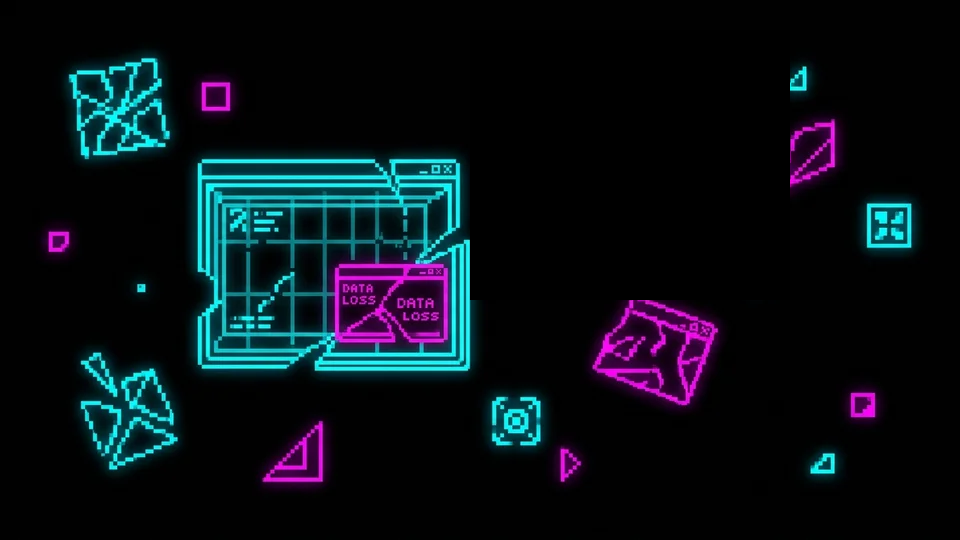
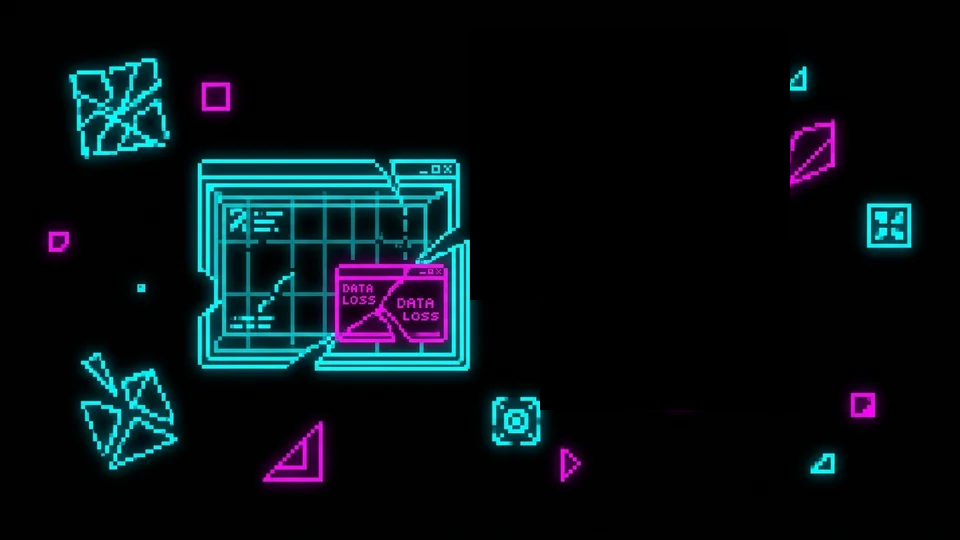
fix(ch4): composicion QA en navegador — near iter3 despeja pies, opacidades matrix/near a rol ambiente

Changed region(s): [[0.5938, 0.5333, 0.75, 0.7704], [0.5625, 0.7407, 0.5938, 0.7704]]

diff --git a/src/components/Chapter4Content.vue b/src/components/Chapter4Content.vue
@@ -353,12 +353,13 @@ onBeforeUnmount(() => {
 
 /* c3 matrix base — Fase B: lluvia de glifos cian sobre negro puro.
    mix-blend-mode:screen convierte el negro en transparente gratis (sin bg-removal).
-   Opacidad baja: es capa de ambiente, los glifos CSS vivos flotan encima (z2). */
+   Opacidad MUY baja: a 0.35 hacía sopa cian detrás del título/paneles
+   (QA visual en navegador 2026-07-10) — ambiente lejano, no protagonista. */
 .ch4-layer--matrix {
   z-index: 1;
   background-image: url('/assets/ch4-matrix.webp');
   mix-blend-mode: screen;
-  opacity: 0.35;
+  opacity: 0.16;
   transform: translate3d(
     calc((var(--mx, 0) + var(--dx, 0)) * 11px),
     calc((var(--my, 0) + var(--dy, 0)) * 9px),
@@ -416,12 +417,14 @@ onBeforeUnmount(() => {
 
 /* c0 near — Fase B: fragmentos holográficos de primer plano (ventanas wireframe rotas,
    shards de datos cian/magenta). Negro puro = transparente via screen blend.
-   Opacidad alta: capa más cercana, protagonista visual del primer plano. */
+   Opacidad contenida: a 0.8 la ventana DATA LOSS (escalada cover a viewport)
+   competía con los paneles de contenido (QA visual 2026-07-10) — presencia
+   fantasmal de primer plano, no cartel. */
 .ch4-layer--near {
   z-index: 4;
   background-image: url('/assets/ch4-near.webp');
   mix-blend-mode: screen;
-  opacity: 0.8;
+  opacity: 0.38;
   transform: translate3d(
     calc((var(--mx, 0) + var(--dx, 0)) * 32px),
     calc((var(--my, 0) + var(--dy, 0)) * 22px),

diff --git a/public/assets/old/CHANGELOG.md b/public/assets/old/CHANGELOG.md
@@ -747,3 +747,11 @@ Aplica colectivamente a los 4 assets parallax originales de ch4 (Plan 04-04 W2).
 - **Razón del cambio:** Rafael: "ch4 ahora tapa a la persona volando". La ventana holográfica cian rota superior-derecha del asset caía exactamente sobre el personaje (sprite en 73%/32%, capa near z4 > character z3, opacity 0.8).
 - **Qué se intentó diferente:** edición quirúrgica con sharp — rect negro x470-790/y30-300 (con mix-blend-mode:screen el negro es transparente). Se conservan ventana central DATA LOSS, shards izquierdos, columna derecha x>790 y crumple magenta bajo los pies.
 - **Commit hash del cambio:** este commit (art(ch4): despejar zona del personaje en capa near iter2)
+
+
+## ch4-near.webp — iter2 → iter3 (2026-07-10)
+
+- **Versión guardada:** `old/ch4-near-2026-07-10-iter2.webp`
+- **Razón del cambio:** Rafael: "sigue sin verse bien". QA visual en navegador (Fable): el crumple magenta 600-720/290-390 y el triángulo cian ~730/250 rozaban pies/piernas del personaje con el cover-scale; además la capa a opacity 0.8 competía con los paneles.
+- **Qué se intentó diferente:** rect negro adicional x540-800/y240-410 (zona bajo el sprite) + opacity de capa 0.8→0.38 y matrix 0.35→0.16 en Chapter4Content.vue (fix CSS acompañante, mismo commit).
+- **Commit hash del cambio:** este commit
